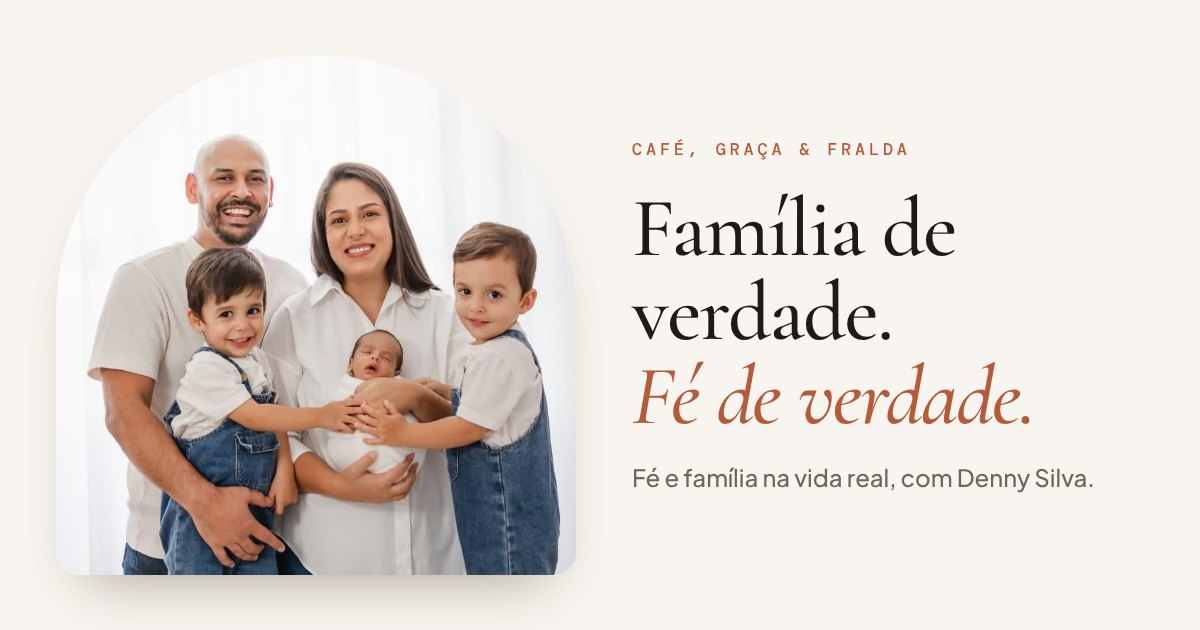
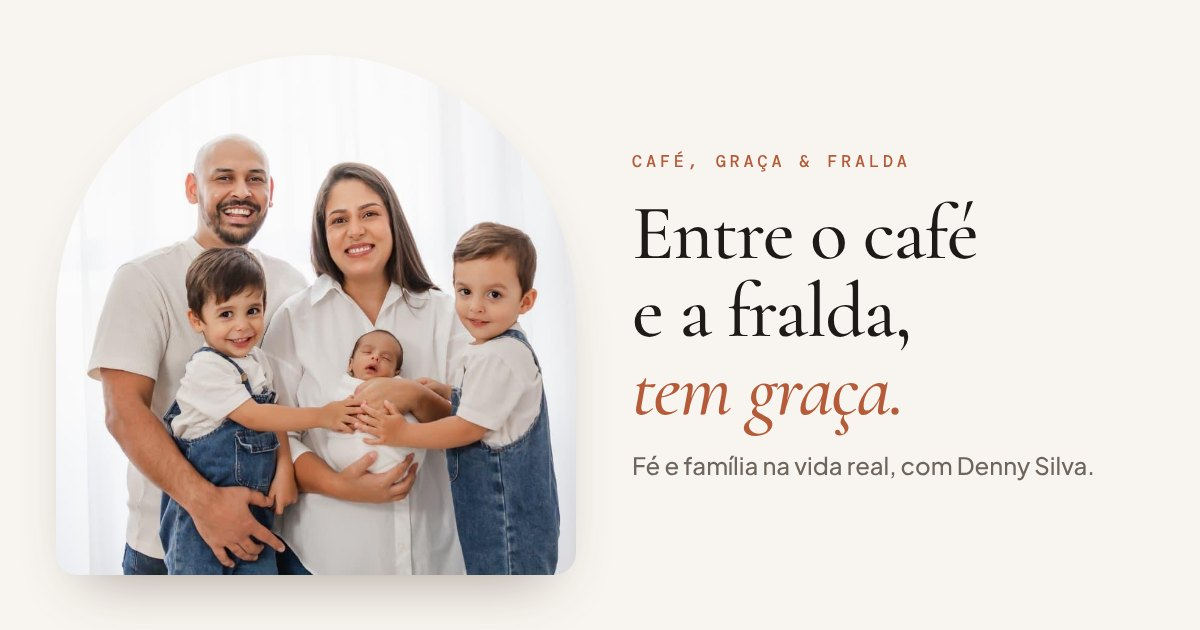
Nova frase principal: Entre o café e a fralda, tem graça
Claude-Session: https://claude.ai/code/session_01U3Rkk6jJzArnHvpyayHL3h

diff --git a/index.html b/index.html
@@ -17,7 +17,7 @@
 <meta property="og:type" content="website">
 <meta property="og:locale" content="pt_BR">
 <meta property="og:site_name" content="Café, Graça &amp; Fralda">
-<meta property="og:title" content="Café, Graça &amp; Fralda · Família de verdade. Fé de verdade.">
+<meta property="og:title" content="Café, Graça &amp; Fralda · Entre o café e a fralda, tem graça.">
 <meta property="og:description" content="Fé e família na vida real, com Denny Silva. Um devocional de 5 minutos toda quarta, chat entre pais e um café na sua mesa.">
 <meta property="og:url" content="https://cafegracaefralda.github.io/">
 <meta property="og:image" content="https://cafegracaefralda.github.io/icons/og-image.jpg">
@@ -134,12 +134,16 @@ body::before{content:"";position:fixed;inset:0 0 auto;height:env(safe-area-inset
 .hero-grid{display:grid;grid-template-columns:minmax(0,1.1fr) minmax(0,.9fr);gap:clamp(28px,5vw,80px);align-items:center}
 .pill{display:inline-flex;align-items:center;gap:10px;padding:7px 15px;border:1px solid #E5CDBF;border-radius:999px;background:var(--surface);font-family:var(--mono);font-size:10.5px;letter-spacing:.18em;text-transform:uppercase;color:var(--terra)}
 .pill::before{content:"";width:6px;height:6px;border-radius:50%;background:var(--terra)}
-.hero h1{font-size:clamp(42px,5.6vw,82px);line-height:1;margin-top:22px;letter-spacing:-.02em}
+.hero h1{font-size:clamp(44px,5.4vw,80px);line-height:.98;margin-top:22px;letter-spacing:-.02em}
 .hero h1 em{font-style:italic;color:var(--terra)}
 .lede{margin-top:20px;max-width:520px;color:var(--muted);font-size:17px}
 .ctas{display:flex;flex-wrap:wrap;gap:10px;margin-top:26px}
-.hero-verse{margin-top:28px;max-width:460px;font-family:var(--serif);font-style:italic;font-size:19px;line-height:1.4;color:var(--muted)}
-.hero-verse .ref{display:block;margin-top:4px}
+.trio{list-style:none;margin:28px 0 0;padding:0;display:grid;grid-template-columns:repeat(3,minmax(0,1fr));gap:14px;max-width:640px}
+.trio li{display:grid;gap:10px;align-content:start;border-top:2px solid var(--terra);padding-top:12px}
+.trio-ic{width:36px;height:36px;border-radius:50%;background:var(--terra-soft);color:var(--terra);display:grid;place-items:center}
+.trio-ic svg{width:19px;height:19px}
+.trio b{font-family:var(--serif);font-size:24px;font-weight:500;line-height:1}
+.trio p{font-size:13.5px;color:var(--muted);line-height:1.45;margin-top:4px}
 .arch{position:relative;justify-self:end;width:min(100%,380px)}
 .arch::before{content:"";position:absolute;inset:-12px -12px 36px -12px;border:1.5px solid #E8D9CC;border-radius:999px 999px 0 0}
 .arch-img{position:relative;border-radius:999px 999px var(--r-lg) var(--r-lg);overflow:hidden;aspect-ratio:4/5;background:var(--sand);box-shadow:var(--shadow)}
@@ -437,7 +441,10 @@ textarea{min-height:96px;resize:vertical}
 }
 @media (max-width:600px){
   .row2{grid-template-columns:1fr}
-  .hero-verse,.df-side{display:none}
+  .df-side{display:none}
+  .trio{gap:8px;margin-top:20px}
+  .trio p{display:none}
+  .trio b{font-size:21px}
   .hero h1{margin-top:16px}
   .lede{font-size:16px;margin-top:14px}
   .ctas{margin-top:18px}
@@ -488,6 +495,8 @@ textarea{min-height:96px;resize:vertical}
   <symbol id="i-user" viewBox="0 0 24 24"><g fill="none" stroke="currentColor" stroke-width="1.8" stroke-linecap="round"><circle cx="12" cy="8" r="4"/><path d="M4 21c0-4.4 3.6-7 8-7s8 2.6 8 7"/></g></symbol>
   <symbol id="i-chat" viewBox="0 0 24 24"><path d="M20 12a8 8 0 0 1-11.6 7.1L4 20l1-4.2A8 8 0 1 1 20 12Z" fill="none" stroke="currentColor" stroke-width="1.8" stroke-linejoin="round"/></symbol>
   <symbol id="i-hand" viewBox="0 0 24 24"><g fill="none" stroke="currentColor" stroke-width="1.8" stroke-linecap="round" stroke-linejoin="round"><path d="M18 11V6a2 2 0 0 0-4 0v5"/><path d="M14 10V4a2 2 0 0 0-4 0v2"/><path d="M10 10.5V6a2 2 0 0 0-4 0v8"/><path d="M18 8a2 2 0 1 1 4 0v6a8 8 0 0 1-8 8h-2c-2.8 0-4.5-.86-6-2.34l-3.6-3.6a2 2 0 0 1 2.83-2.82L7 15"/></g></symbol>
+  <symbol id="i-heart" viewBox="0 0 24 24"><path d="M19 14c1.49-1.46 3-3.21 3-5.5A5.5 5.5 0 0 0 16.5 3c-1.76 0-3 .5-4.5 2-1.5-1.5-2.74-2-4.5-2A5.5 5.5 0 0 0 2 8.5c0 2.3 1.5 4.05 3 5.5l7 7Z" fill="none" stroke="currentColor" stroke-width="1.8" stroke-linejoin="round"/></symbol>
+  <symbol id="i-diaper" viewBox="0 0 24 24"><g fill="none" stroke="currentColor" stroke-width="1.8" stroke-linecap="round" stroke-linejoin="round"><path d="M4.4 6h15.2l-.5 4c-.5 3.6-2.4 5.9-5 7.2-1 .5-1.7 1.3-1.9 2.3h-2.4c-.2-1-.9-1.8-1.9-2.3-2.6-1.3-4.5-3.6-5-7.2L4.4 6Z"/><path d="M4.4 6H2.6a.9.9 0 0 0-.9.9v2.2a.9.9 0 0 0 .9.9h2M19.6 6h1.8a.9.9 0 0 1 .9.9v2.2a.9.9 0 0 1-.9.9h-2"/></g></symbol>
   <symbol id="i-plus" viewBox="0 0 24 24"><path d="M12 4v16M4 12h16" fill="none" stroke="currentColor" stroke-width="2" stroke-linecap="round"/></symbol>
   <symbol id="i-x" viewBox="0 0 24 24"><path d="M6 6l12 12M18 6 6 18" fill="none" stroke="currentColor" stroke-width="2" stroke-linecap="round"/></symbol>
   <symbol id="i-share" viewBox="0 0 24 24"><g fill="none" stroke="currentColor" stroke-width="1.8" stroke-linecap="round" stroke-linejoin="round"><circle cx="6" cy="12" r="2.5"/><circle cx="18" cy="6" r="2.5"/><circle cx="18" cy="18" r="2.5"/><path d="m8.2 10.8 7.6-3.6M8.2 13.2l7.6 3.6"/></g></symbol>
@@ -541,13 +550,17 @@ textarea{min-height:96px;resize:vertical}
       <div class="hero hero-grid">
         <div>
           <span class="pill in">Café, Graça &amp; Fralda · com Denny Silva</span>
-          <h1 class="in">Família de verdade.<br><em>Fé de verdade.</em></h1>
+          <h1 class="in">Entre o café<br>e a fralda,<br><em>tem graça.</em></h1>
           <p class="lede in">Há 10 anos eu e a Gabi estamos construindo uma família: três filhos, muitas madrugadas e uma fé que a gente não negocia. Aqui eu divido o que vou aprendendo, de um jeito simples, para qualquer pessoa que quer um lar mais leve e mais firme.</p>
           <div class="ctas in">
             <button class="btn btn-dark" type="button" id="readToday"><svg><use href="#i-book"/></svg>Ler os 5 minutos de hoje</button>
             <a class="btn btn-wa" data-wa="Oi, Denny! Vim pelo site Café, Graça & Fralda e queria conversar." href="https://wa.me/5581992702353" target="_blank" rel="noopener"><svg><use href="#i-wa"/></svg>Chamar no WhatsApp</a>
           </div>
-          <p class="hero-verse in">“Se o Senhor não edificar a casa, em vão trabalham os que a edificam.”<span class="ref">Salmos 127:1</span></p>
+          <ul class="trio in" aria-label="O que o nome quer dizer">
+            <li><span class="trio-ic"><svg><use href="#i-cup"/></svg></span><div><b>Café</b><p>A pausa da madrugada e a conversa que ninguém queria ter.</p></div></li>
+            <li><span class="trio-ic"><svg><use href="#i-heart"/></svg></span><div><b>Graça</b><p>O que sustenta quando a força acaba: perdão e recomeço.</p></div></li>
+            <li><span class="trio-ic"><svg><use href="#i-diaper"/></svg></span><div><b>Fralda</b><p>A rotina de cuidar, onde a fé deixa de ser teoria.</p></div></li>
+          </ul>
         </div>
         <div class="arch in">
           <div class="arch-img"><img src="img/familia-1.jpg" alt="Denny, Gabi, os gêmeos e o bebê recém-nascido sorrindo juntos" width="1280" height="853"></div>

diff --git a/_src/body.html b/_src/body.html
@@ -10,6 +10,8 @@
   <symbol id="i-user" viewBox="0 0 24 24"><g fill="none" stroke="currentColor" stroke-width="1.8" stroke-linecap="round"><circle cx="12" cy="8" r="4"/><path d="M4 21c0-4.4 3.6-7 8-7s8 2.6 8 7"/></g></symbol>
   <symbol id="i-chat" viewBox="0 0 24 24"><path d="M20 12a8 8 0 0 1-11.6 7.1L4 20l1-4.2A8 8 0 1 1 20 12Z" fill="none" stroke="currentColor" stroke-width="1.8" stroke-linejoin="round"/></symbol>
   <symbol id="i-hand" viewBox="0 0 24 24"><g fill="none" stroke="currentColor" stroke-width="1.8" stroke-linecap="round" stroke-linejoin="round"><path d="M18 11V6a2 2 0 0 0-4 0v5"/><path d="M14 10V4a2 2 0 0 0-4 0v2"/><path d="M10 10.5V6a2 2 0 0 0-4 0v8"/><path d="M18 8a2 2 0 1 1 4 0v6a8 8 0 0 1-8 8h-2c-2.8 0-4.5-.86-6-2.34l-3.6-3.6a2 2 0 0 1 2.83-2.82L7 15"/></g></symbol>
+  <symbol id="i-heart" viewBox="0 0 24 24"><path d="M19 14c1.49-1.46 3-3.21 3-5.5A5.5 5.5 0 0 0 16.5 3c-1.76 0-3 .5-4.5 2-1.5-1.5-2.74-2-4.5-2A5.5 5.5 0 0 0 2 8.5c0 2.3 1.5 4.05 3 5.5l7 7Z" fill="none" stroke="currentColor" stroke-width="1.8" stroke-linejoin="round"/></symbol>
+  <symbol id="i-diaper" viewBox="0 0 24 24"><g fill="none" stroke="currentColor" stroke-width="1.8" stroke-linecap="round" stroke-linejoin="round"><path d="M4.4 6h15.2l-.5 4c-.5 3.6-2.4 5.9-5 7.2-1 .5-1.7 1.3-1.9 2.3h-2.4c-.2-1-.9-1.8-1.9-2.3-2.6-1.3-4.5-3.6-5-7.2L4.4 6Z"/><path d="M4.4 6H2.6a.9.9 0 0 0-.9.9v2.2a.9.9 0 0 0 .9.9h2M19.6 6h1.8a.9.9 0 0 1 .9.9v2.2a.9.9 0 0 1-.9.9h-2"/></g></symbol>
   <symbol id="i-plus" viewBox="0 0 24 24"><path d="M12 4v16M4 12h16" fill="none" stroke="currentColor" stroke-width="2" stroke-linecap="round"/></symbol>
   <symbol id="i-x" viewBox="0 0 24 24"><path d="M6 6l12 12M18 6 6 18" fill="none" stroke="currentColor" stroke-width="2" stroke-linecap="round"/></symbol>
   <symbol id="i-share" viewBox="0 0 24 24"><g fill="none" stroke="currentColor" stroke-width="1.8" stroke-linecap="round" stroke-linejoin="round"><circle cx="6" cy="12" r="2.5"/><circle cx="18" cy="6" r="2.5"/><circle cx="18" cy="18" r="2.5"/><path d="m8.2 10.8 7.6-3.6M8.2 13.2l7.6 3.6"/></g></symbol>
@@ -63,13 +65,17 @@
       <div class="hero hero-grid">
         <div>
           <span class="pill in">Café, Graça &amp; Fralda · com Denny Silva</span>
-          <h1 class="in">Família de verdade.<br><em>Fé de verdade.</em></h1>
+          <h1 class="in">Entre o café<br>e a fralda,<br><em>tem graça.</em></h1>
           <p class="lede in">Há 10 anos eu e a Gabi estamos construindo uma família: três filhos, muitas madrugadas e uma fé que a gente não negocia. Aqui eu divido o que vou aprendendo, de um jeito simples, para qualquer pessoa que quer um lar mais leve e mais firme.</p>
           <div class="ctas in">
             <button class="btn btn-dark" type="button" id="readToday"><svg><use href="#i-book"/></svg>Ler os 5 minutos de hoje</button>
             <a class="btn btn-wa" data-wa="Oi, Denny! Vim pelo site Café, Graça & Fralda e queria conversar." href="https://wa.me/5581992702353" target="_blank" rel="noopener"><svg><use href="#i-wa"/></svg>Chamar no WhatsApp</a>
           </div>
-          <p class="hero-verse in">“Se o Senhor não edificar a casa, em vão trabalham os que a edificam.”<span class="ref">Salmos 127:1</span></p>
+          <ul class="trio in" aria-label="O que o nome quer dizer">
+            <li><span class="trio-ic"><svg><use href="#i-cup"/></svg></span><div><b>Café</b><p>A pausa da madrugada e a conversa que ninguém queria ter.</p></div></li>
+            <li><span class="trio-ic"><svg><use href="#i-heart"/></svg></span><div><b>Graça</b><p>O que sustenta quando a força acaba: perdão e recomeço.</p></div></li>
+            <li><span class="trio-ic"><svg><use href="#i-diaper"/></svg></span><div><b>Fralda</b><p>A rotina de cuidar, onde a fé deixa de ser teoria.</p></div></li>
+          </ul>
         </div>
         <div class="arch in">
           <div class="arch-img"><img src="img/familia-1.jpg" alt="Denny, Gabi, os gêmeos e o bebê recém-nascido sorrindo juntos" width="1280" height="853"></div>

diff --git a/_src/styles.css b/_src/styles.css
@@ -104,12 +104,16 @@ body::before{content:"";position:fixed;inset:0 0 auto;height:env(safe-area-inset
 .hero-grid{display:grid;grid-template-columns:minmax(0,1.1fr) minmax(0,.9fr);gap:clamp(28px,5vw,80px);align-items:center}
 .pill{display:inline-flex;align-items:center;gap:10px;padding:7px 15px;border:1px solid #E5CDBF;border-radius:999px;background:var(--surface);font-family:var(--mono);font-size:10.5px;letter-spacing:.18em;text-transform:uppercase;color:var(--terra)}
 .pill::before{content:"";width:6px;height:6px;border-radius:50%;background:var(--terra)}
-.hero h1{font-size:clamp(42px,5.6vw,82px);line-height:1;margin-top:22px;letter-spacing:-.02em}
+.hero h1{font-size:clamp(44px,5.4vw,80px);line-height:.98;margin-top:22px;letter-spacing:-.02em}
 .hero h1 em{font-style:italic;color:var(--terra)}
 .lede{margin-top:20px;max-width:520px;color:var(--muted);font-size:17px}
 .ctas{display:flex;flex-wrap:wrap;gap:10px;margin-top:26px}
-.hero-verse{margin-top:28px;max-width:460px;font-family:var(--serif);font-style:italic;font-size:19px;line-height:1.4;color:var(--muted)}
-.hero-verse .ref{display:block;margin-top:4px}
+.trio{list-style:none;margin:28px 0 0;padding:0;display:grid;grid-template-columns:repeat(3,minmax(0,1fr));gap:14px;max-width:640px}
+.trio li{display:grid;gap:10px;align-content:start;border-top:2px solid var(--terra);padding-top:12px}
+.trio-ic{width:36px;height:36px;border-radius:50%;background:var(--terra-soft);color:var(--terra);display:grid;place-items:center}
+.trio-ic svg{width:19px;height:19px}
+.trio b{font-family:var(--serif);font-size:24px;font-weight:500;line-height:1}
+.trio p{font-size:13.5px;color:var(--muted);line-height:1.45;margin-top:4px}
 .arch{position:relative;justify-self:end;width:min(100%,380px)}
 .arch::before{content:"";position:absolute;inset:-12px -12px 36px -12px;border:1.5px solid #E8D9CC;border-radius:999px 999px 0 0}
 .arch-img{position:relative;border-radius:999px 999px var(--r-lg) var(--r-lg);overflow:hidden;aspect-ratio:4/5;background:var(--sand);box-shadow:var(--shadow)}
@@ -407,7 +411,10 @@ textarea{min-height:96px;resize:vertical}
 }
 @media (max-width:600px){
   .row2{grid-template-columns:1fr}
-  .hero-verse,.df-side{display:none}
+  .df-side{display:none}
+  .trio{gap:8px;margin-top:20px}
+  .trio p{display:none}
+  .trio b{font-size:21px}
   .hero h1{margin-top:16px}
   .lede{font-size:16px;margin-top:14px}
   .ctas{margin-top:18px}

diff --git a/sw.js b/sw.js
@@ -1,6 +1,6 @@
 // Service worker do Café, Graça & Fralda: faz o site abrir como app e funcionar sem internet.
 // Gerado por _src/build.py; a versão muda a cada publicação para os celulares baixarem a novidade.
-const CACHE = "cgf-74b2f5b569";
+const CACHE = "cgf-16512240f3";
 const CORE = [
   "./",
   "index.html",

diff --git a/_src/build.py b/_src/build.py
@@ -41,7 +41,7 @@ html = f"""<!doctype html>
 <meta property="og:type" content="website">
 <meta property="og:locale" content="pt_BR">
 <meta property="og:site_name" content="{TITLE.replace("&", "&amp;")}">
-<meta property="og:title" content="{TITLE.replace("&", "&amp;")} · Família de verdade. Fé de verdade.">
+<meta property="og:title" content="{TITLE.replace("&", "&amp;")} · Entre o café e a fralda, tem graça.">
 <meta property="og:description" content="{DESCRIPTION}">
 <meta property="og:url" content="{BASE_URL}">
 <meta property="og:image" content="{BASE_URL}icons/og-image.jpg">
